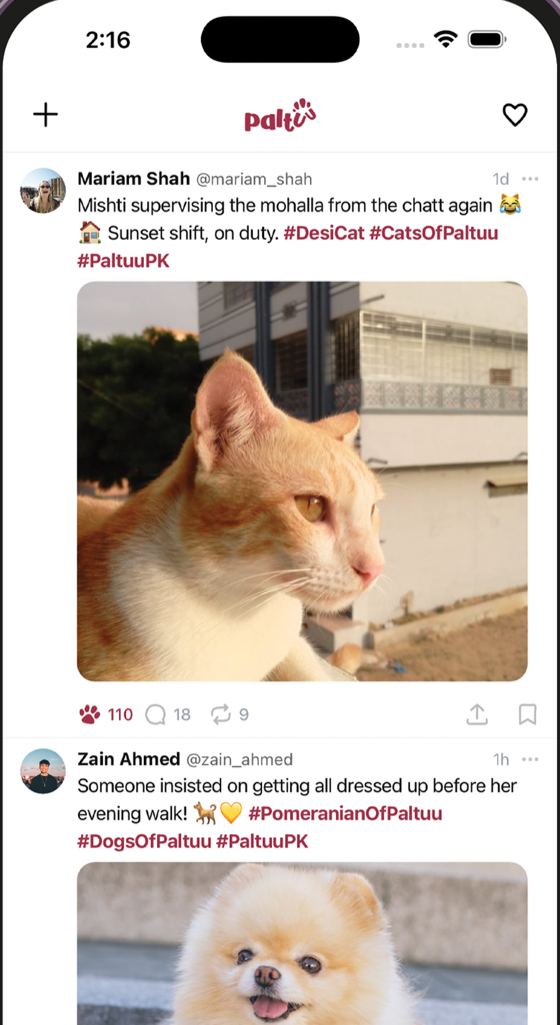
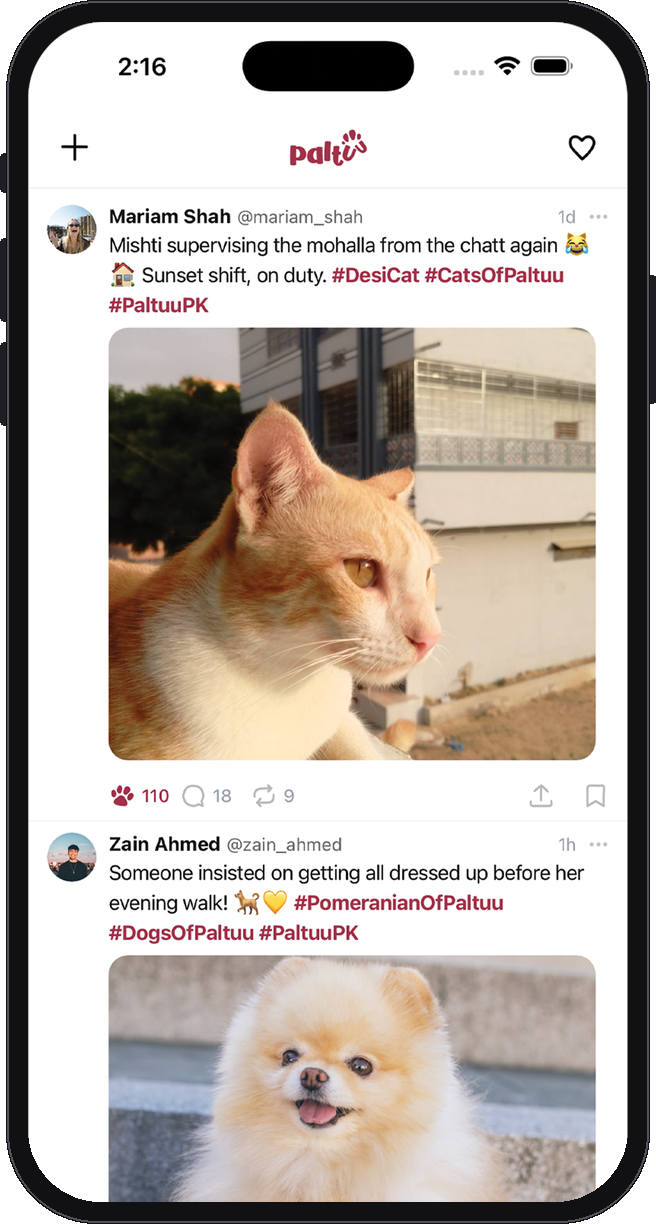
Draw real device frames around the app screens
Borrows the approach from the ev-charge-app store-screenshot generator: draw
the phone with Pillow rather than faking it with a CSS border. The frames now
have a proper bezel, rounded screen cutout, metallic edge and side buttons,
which the flat bordered rectangles did not.

Three things are deliberately different from the reference script, because
this is a web page and not a store listing. The background is transparent
instead of a brand fill, so the frames sit on whatever the section colour is,
which matters because ApplyThemeColor rewrites --primary-color per role. No
title or subtitle is baked in, since the page renders those as real text that
stays selectable and crawlable. And the shadow is left to CSS, where
drop-shadow follows the alpha silhouette and can be retuned without
regenerating anything.

The screen rectangle is detected per source rather than hardcoded. A single
scan line was not enough: near the top the screen's own rounded corners make
the lit area narrower than the screen, and any line crossing the dynamic
island stops immediately, which is what clipped the right edge on the first
attempt. Sampling a band and keeping the widest result handles both. All four
outputs are normalised to 656x1224 so the row lines up.

Served weight is 160KB for all four as WebP, lazy-loaded below the fold.

The setup note in SCREENSHOT_MECHANISM.md about Homebrew python@3.14 having a
broken pyexpat is why scripts/make_app_screens.py documents python3.13.

diff --git a/petproj/components/home/AppSection.tsx b/petproj/components/home/AppSection.tsx
@@ -42,16 +42,20 @@ export default function AppSection() {
                     {APP_SCREENS.map((screen, i) => (
                         <Reveal key={screen.src} delay={i * 0.06}>
                             <li className="list-none">
-                                <div className="rounded-[1.25rem] border-[5px] border-gray-900 bg-gray-900 overflow-hidden shadow-xl">
-                                    <Image
-                                        src={screen.src}
-                                        alt={screen.alt}
-                                        width={560}
-                                        height={1025}
-                                        className="block w-full h-auto"
-                                        sizes="(max-width: 1024px) 45vw, 22vw"
-                                    />
-                                </div>
+                                {/* The device frame is drawn into the PNG by
+                                    scripts/make_app_screens.py, so there is no
+                                    CSS bezel here. The shadow stays in CSS
+                                    because drop-shadow follows the alpha
+                                    silhouette and can be retuned without
+                                    regenerating the images. */}
+                                <Image
+                                    src={screen.src}
+                                    alt={screen.alt}
+                                    width={656}
+                                    height={1224}
+                                    className="block w-full h-auto drop-shadow-[0_16px_28px_rgba(0,0,0,0.4)]"
+                                    sizes="(max-width: 1024px) 45vw, 22vw"
+                                />
                                 <h3 className="mt-4 text-sm md:text-base font-bold text-white">
                                     {screen.title}
                                 </h3>

diff --git a/petproj/lib/homeContent.ts b/petproj/lib/homeContent.ts
@@ -80,16 +80,15 @@ export const VETS_AT_HOME = {
 } as const;
 
 /**
- * Real screens from the iOS app, cropped out of the store screenshots in
- * /app-screenshots/ios. Order matters: the feed first, because the social side
- * is what most visitors do not know exists.
+ * Real screens from the iOS app, with the device frame drawn around them by
+ * scripts/make_app_screens.py. Regenerate with:
+ *     /opt/homebrew/bin/python3.13 -m venv /tmp/shotvenv
+ *     /tmp/shotvenv/bin/pip install Pillow
+ *     /tmp/shotvenv/bin/python scripts/make_app_screens.py
+ * (Homebrew python@3.14 ships a broken pyexpat, so 3.13 is required.)
  *
- * The crops were taken per image, because the phone sits at a slightly
- * different height in each marketing frame and one shared offset clipped the
- * status bar on some of them. To regenerate at 560x1025:
- *   sips --cropOffset <y> 134 -c 1860 1016 ios/<n>.png --out raw.png
- *   sips --resampleWidth 560 raw.png --out <name>.png
- * with y = 788 (1 feed), 781 (2 pet-profile), 791 (4 adopt), 771 (6 vets).
+ * Order matters: the feed first, because the social side is what most visitors
+ * do not know exists.
  */
 export const APP_SCREENS = [
     {

diff --git a/petproj/scripts/make_app_screens.py b/petproj/scripts/make_app_screens.py
@@ -1,0 +1,171 @@
+"""
+Builds the phone mockups used by components/home/AppSection.tsx.
+
+Adapted from the store-screenshot generator documented in
+~/Desktop/ev-charge-app/store-assets/SCREENSHOT_MECHANISM.md, with three
+changes for web use:
+
+  * transparent background instead of a brand fill, so the frames sit on
+    whatever the section background happens to be
+  * no baked title/subtitle: the landing page renders those as real text, which
+    stays selectable, translatable and crawlable
+  * no baked shadow: CSS drop-shadow follows the alpha silhouette and can be
+    retuned without regenerating anything
+
+Source captures are the App Store marketing frames in
+~/Desktop/Paltuu/app-screenshots/ios. The phone sits at a slightly different
+height in each of those, so the screen rectangle is detected per image rather
+than hardcoded.
+
+Setup (Homebrew python@3.14 has a broken pyexpat, so 3.13 is required):
+    /opt/homebrew/bin/python3.13 -m venv /tmp/shotvenv
+    /tmp/shotvenv/bin/pip install Pillow
+    /tmp/shotvenv/bin/python scripts/make_app_screens.py
+"""
+
+import os
+from PIL import Image, ImageDraw
+
+_HERE = os.path.dirname(os.path.abspath(__file__))
+SRC_DIR = os.path.expanduser("~/Desktop/Paltuu/app-screenshots/ios")
+OUT_DIR = os.path.join(_HERE, "..", "public", "app-screens")
+
+FRAME_COLOR = (17, 17, 20)
+FRAME_EDGE = (82, 84, 92)
+BUTTON_COLOR = (30, 30, 35)
+
+# (source file, output name)
+ITEMS = [
+    ("1.png", "feed.png"),
+    ("2.png", "pet-profile.png"),
+    ("4.png", "adopt.png"),
+    ("6.png", "vets.png"),
+]
+
+SCREEN_W = 600          # rendered screen width; ~2.3x the 260px CSS box
+SCREEN_H = 1180         # fixed, so all four frames come out identical and the
+                        # row lines up; sources differ by ~12px otherwise
+BEZEL = 22
+EDGE_WIDTH = 2
+BTN_PROTRUDE = 6
+BTN_INSET = 18
+BTN_RADIUS = 4
+
+
+def luma(px):
+    return 0.299 * px[0] + 0.587 * px[1] + 0.114 * px[2]
+
+
+def find_screen_rect(img):
+    """Locate the phone's screen area inside a marketing frame.
+
+    Walks down a column in the left quarter of the image, which is plain white
+    status bar inside the phone and clear of the dynamic island. The first
+    bright pixel that follows a dark one is the top of the screen; the bezel
+    above it is what makes that transition unambiguous on both the white and
+    the maroon marketing backgrounds.
+    """
+    w, h = img.size
+    px = img.load()
+
+    probe_x = int(w * 0.25)
+    seen_dark = False
+    top = None
+    for y in range(int(h * 0.20), int(h * 0.45)):
+        l = luma(px[probe_x, y])
+        if l < 60:
+            seen_dark = True
+        elif seen_dark and l > 200:
+            top = y
+            break
+    if top is None:
+        raise SystemExit(f"could not find screen top (probe_x={probe_x})")
+
+    # Find the side edges by walking outward from the centre until the dark
+    # bezel stops us. A single scan line is not enough: near the top the
+    # screen's own rounded corners make the lit area narrower than the screen,
+    # and any line crossing the dynamic island stops immediately. Sampling a
+    # band and keeping the widest result sidesteps both, and the bezel is far
+    # darker than even the maroon marketing background, so the threshold holds
+    # on every source.
+    cx = w // 2
+    left, right = cx, cx
+    for scan_y in range(top + 60, top + 260, 4):
+        l = cx
+        while l > 0 and luma(px[l, scan_y]) > 50:
+            l -= 1
+        r = cx
+        while r < w - 1 and luma(px[r, scan_y]) > 50:
+            r += 1
+        left = min(left, l)
+        right = max(right, r)
+
+    return left + 1, top, right, h
+
+
+def build(src_path, out_path):
+    img = Image.open(src_path).convert("RGB")
+    left, top, right, bottom = find_screen_rect(img)
+    screen = img.crop((left, top, right, bottom))
+
+    # Trim the bottom to a fixed aspect before scaling, so every frame ends up
+    # the same size. The sources are all cut off at the bottom of the phone
+    # anyway, so there is nothing meaningful down there to lose.
+    target_aspect = SCREEN_H / SCREEN_W
+    max_h = int(screen.size[0] * target_aspect)
+    if screen.size[1] > max_h:
+        screen = screen.crop((0, 0, screen.size[0], max_h))
+    screen_h = SCREEN_H
+    screen = screen.resize((SCREEN_W, screen_h), Image.LANCZOS)
+
+    dev_w = SCREEN_W + BEZEL * 2
+    dev_h = screen_h + BEZEL * 2
+    outer_r = int(dev_w * 0.14)
+    inner_r = max(1, outer_r - BEZEL + 4)
+
+    pad = BTN_PROTRUDE
+    canvas = Image.new("RGBA", (dev_w + pad * 2, dev_h), (0, 0, 0, 0))
+    ox = pad
+
+    # Buttons first: the frame drawn next overlaps their inner half, so they
+    # read as protruding from behind the body rather than stuck on top of it.
+    bd = ImageDraw.Draw(canvas)
+    bw = BTN_PROTRUDE + BTN_INSET
+
+    def button(x_left, y_frac, h_frac):
+        y0 = int(dev_h * y_frac)
+        bd.rounded_rectangle(
+            [x_left, y0, x_left + bw, y0 + int(dev_h * h_frac)],
+            radius=BTN_RADIUS, fill=BUTTON_COLOR + (255,))
+
+    lx = ox - BTN_PROTRUDE
+    button(lx, 0.125, 0.032)   # silent switch
+    button(lx, 0.195, 0.068)   # volume up
+    button(lx, 0.280, 0.068)   # volume down
+    button(ox + dev_w - BTN_INSET, 0.225, 0.105)  # power
+
+    body = Image.new("RGBA", (dev_w, dev_h), (0, 0, 0, 0))
+    mask = Image.new("L", (dev_w, dev_h), 0)
+    ImageDraw.Draw(mask).rounded_rectangle(
+        [0, 0, dev_w - 1, dev_h - 1], radius=outer_r, fill=255)
+    body.paste(Image.new("RGBA", (dev_w, dev_h), FRAME_COLOR + (255,)), (0, 0), mask)
+    ImageDraw.Draw(body).rounded_rectangle(
+        [1, 1, dev_w - 2, dev_h - 2], radius=outer_r,
+        outline=FRAME_EDGE + (255,), width=EDGE_WIDTH)
+
+    screen_mask = Image.new("L", (SCREEN_W, screen_h), 0)
+    ImageDraw.Draw(screen_mask).rounded_rectangle(
+        [0, 0, SCREEN_W - 1, screen_h - 1], radius=inner_r, fill=255)
+    body.paste(screen.convert("RGBA"), (BEZEL, BEZEL), screen_mask)
+
+    canvas.paste(body, (ox, 0), body)
+    canvas.save(out_path, "PNG")
+    return canvas.size, (left, top, right - left)
+
+
+os.makedirs(OUT_DIR, exist_ok=True)
+for src, out in ITEMS:
+    size, detected = build(os.path.join(SRC_DIR, src),
+                           os.path.join(OUT_DIR, out))
+    print(f"{out:16s} -> {size[0]}x{size[1]}   "
+          f"detected screen: x={detected[0]} y={detected[1]} w={detected[2]}")
